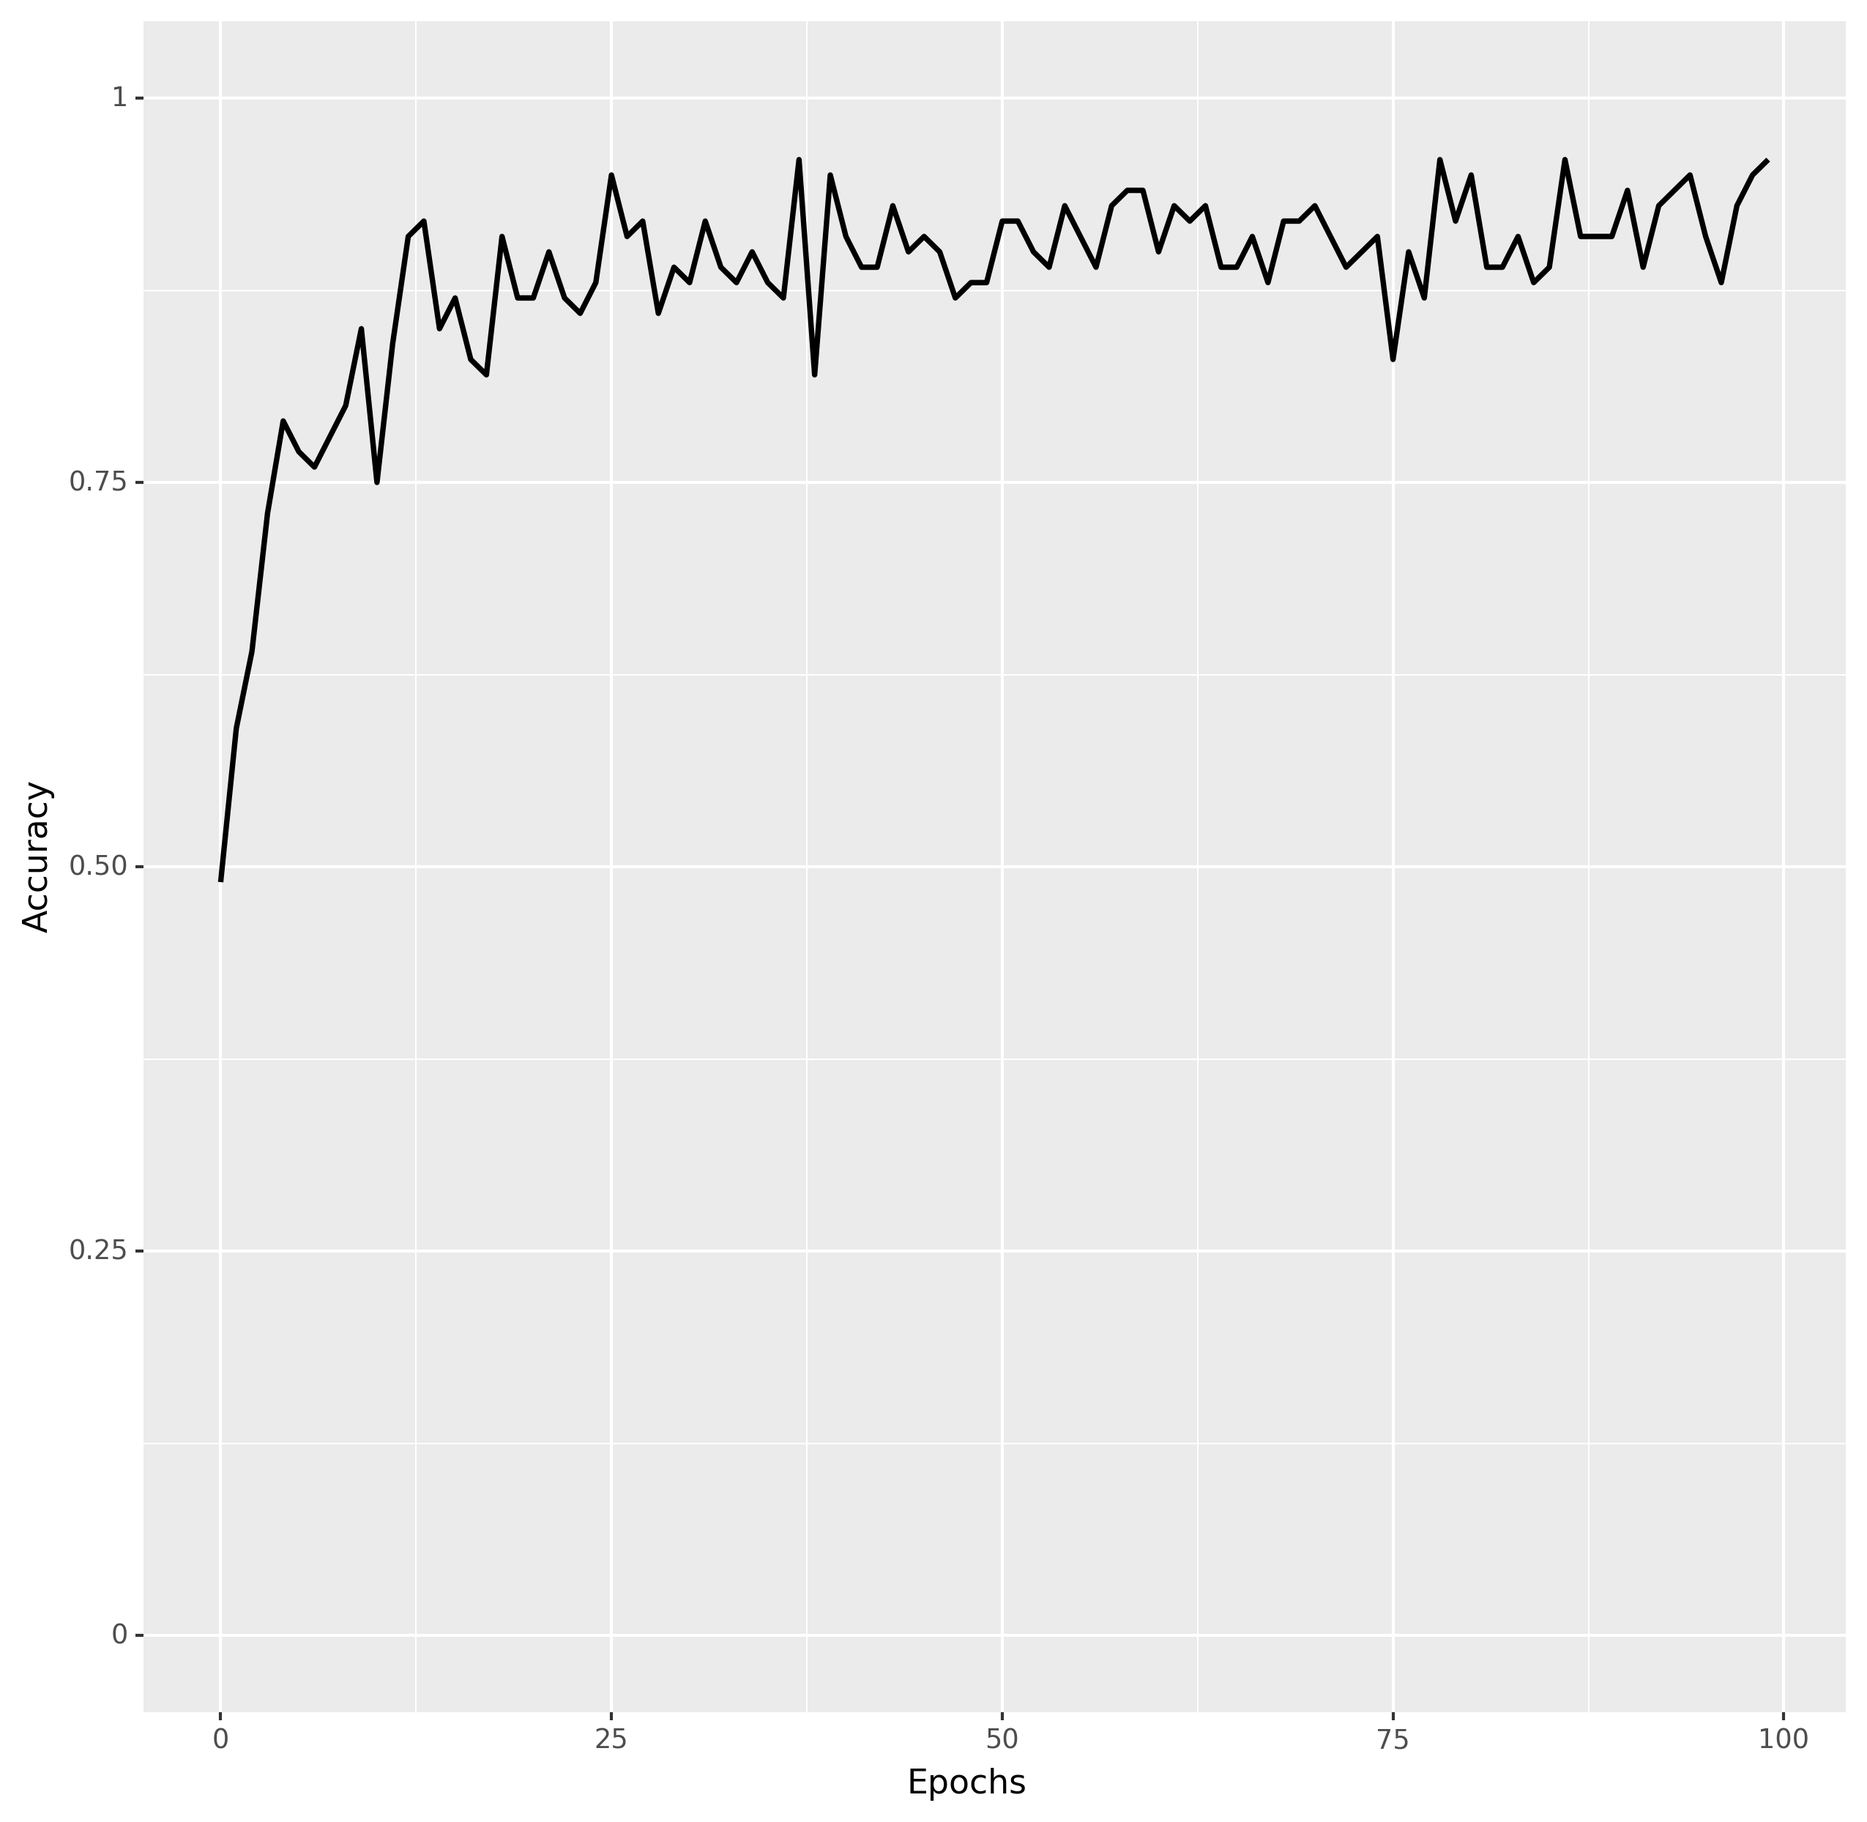
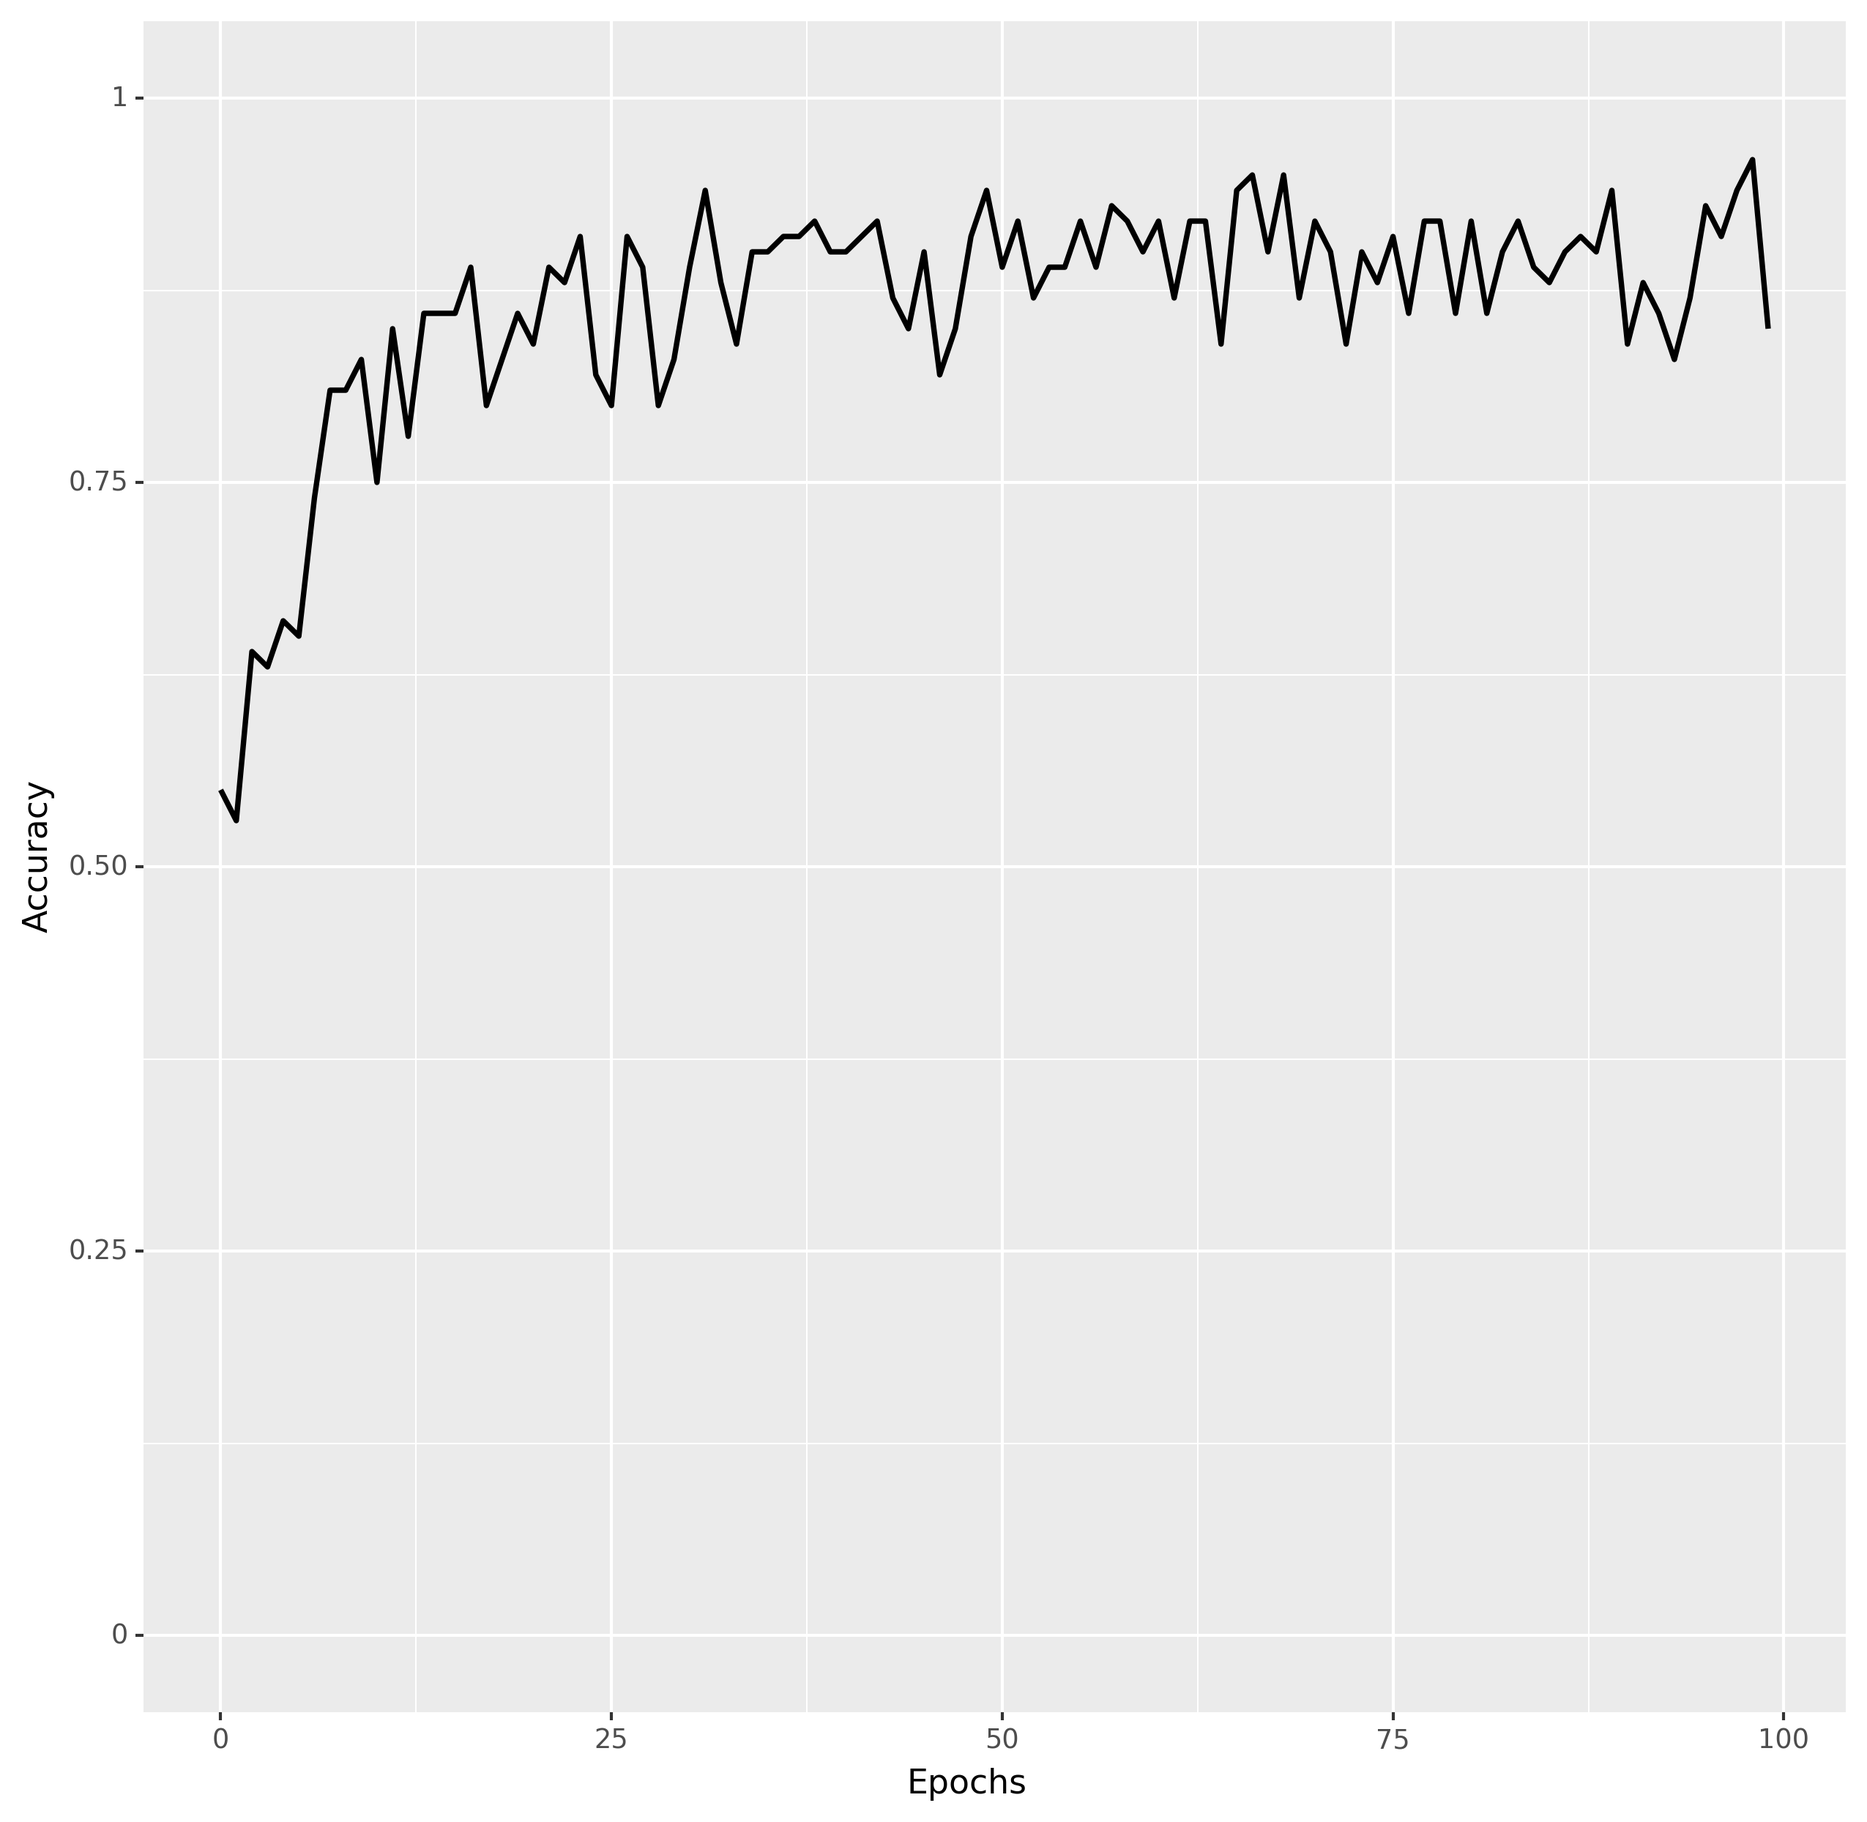
added Layer module to network

Changed region(s): [[0.1239, 0.0928, 0.9604, 0.4331], [0.0929, 0.4331, 0.1239, 0.464]]

diff --git a/src/agents.py b/src/agents.py
@@ -90,28 +90,26 @@ class SignalingModule:
     def forward(self, x) -> Any:
         raise NotImplementedError
 
+    def update(self, reward_amount: float = 0) -> None:
+        """Perform a learning update on the module, by optionally rewarding based on the last policy taken, and clearing the policy history for the next forward pass."""
+        if reward_amount:
+            self.reward(amount=reward_amount)
+        self.reset_history()
+
     def reward(self, amount: float) -> None:
 
         if len(self.history) != 1:
-            raise ValueError(f"Length of history must be exactly 1 to extract a unique policy to reward. Received history: {self.history}")
-        # TODO: refactor this and below into just an 'update' function
+            raise ValueError(
+                f"Length of history must be exactly 1 to extract a unique policy to reward. Received history: {self.history}"
+            )
 
         policy = self.history.pop()
         indices = self.policy_to_indices(policy)
         self.parameters[indices] += amount
 
-    def punish(self, amount: float) -> None:
-
-        if len(self.history) != 1:
-            raise ValueError(f"Length of history must be exactly 1 to extract a unique policy to punish. Received history: {self.history}")
-
-        policy = self.history.pop()
-        indices = self.policy_to_indices(policy)
-        self.parameters[indices] -= amount
-
-        # reset if necessary
-        if self.parameters[indices] < 1:
-            self.parameters[indices] = 1
+    def reset_history(self) -> None:
+        """Call this function after every forward pass through a module, whether it was rewarded or not."""
+        self.history = []
 
     @abstractmethod
     def policy_to_indices(self, policy: dict[str, Any]) -> tuple[int]:
@@ -176,10 +174,9 @@ class ReceiverSender(SignalingModule):
         # no need to touch `history`
         return self.sender(self.receiver(x))
 
-    def reward(self, amount: float) -> None:
-        """Reward the agent by incrementing its sub-agents' relevant parameters."""
-        self.receiver.reward(amount)
-        self.sender.reward(amount)
+    def update(self, reward_amount: float = 0) -> None:
+        self.receiver.update(reward_amount)
+        self.sender.update(reward_amount)
 
 
 class AttentionAgent(SignalingModule):
@@ -202,7 +199,9 @@ class AttentionAgent(SignalingModule):
         output = x[index]
 
         if len(self.history) != 0:
-            raise ValueError(f"The length of history before pushing a policy should be empty. The value of history: {self.history}")
+            raise ValueError(
+                f"The length of history before pushing a policy should be empty. The value of history: {self.history}"
+            )
 
         self.history.append({"index": index})
 
@@ -210,7 +209,7 @@ class AttentionAgent(SignalingModule):
 
     def policy_to_indices(self, policy: dict[str, Any]) -> tuple[int]:
         # a singleton tuple
-        return (policy["index"])
+        return policy["index"]
 
 
 class AttentionSignaler(SignalingModule):
@@ -228,16 +227,15 @@ class AttentionSignaler(SignalingModule):
     def forward(self, x: list[State]) -> Signal:
         return self.signaler(self.attention_layer(x))
 
-    def reward(self, amount: float) -> None:
-        """Reward the agent by incrementing its sub-agents' relevant parameters."""
-        self.attention_layer.reward(amount)
-        self.signaler.reward(amount)
+    def update(self, reward_amount: float = 0) -> None:
+        self.attention_layer.update(reward_amount)
+        self.signaler.update(reward_amount)
 
 
 class AttentionSender(AttentionSignaler):
     def __init__(self, input_size: int) -> None:
         super().__init__(
-            attention_layer=AttentionAgent(input_size), 
+            attention_layer=AttentionAgent(input_size),
             signaler=game.get_sender(),
         )
 
@@ -245,7 +243,7 @@ class AttentionSender(AttentionSignaler):
 class AttentionReceiver(AttentionSignaler):
     def __init__(self, input_size: int) -> None:
         super().__init__(
-            attention_layer=AttentionAgent(input_size), 
+            attention_layer=AttentionAgent(input_size),
             signaler=game.get_receiver(),
         )
 
@@ -280,12 +278,10 @@ class Compressor(SignalingModule):
         composite_signal = compose(signal_1, signal_2)
         return self.receiver_sender(composite_signal)
 
-    def reward(self, amount: float) -> None:
-        """Reward the agent by incrementing its sub-agents' relevant parameters."""
-        print("attention_1 history in reward: ", self.attention_1.history)
-        self.attention_1.reward(amount)
-        self.attention_2.reward(amount)
-        self.receiver_sender.reward(amount)
+    def update(self, reward_amount: float = 0) -> None:
+        self.attention_1.update(reward_amount)
+        self.attention_2.update(reward_amount)
+        self.receiver_sender.update(reward_amount)
 
 
 ##############################################################################

diff --git a/src/network.py b/src/network.py
@@ -16,43 +16,64 @@ class SignalTree(SignalingModule):
 
     def __init__(self, input_size: int) -> None:
         # initialize layers
-        self.layers = build_triangle_network(input_size)
+        self.agents = build_triangle_network(input_size)
 
         # wrap each layer of agents as a function
-        self.input_layer = lambda x: [agent(x) for agent in self.layers["input"]]
+        self.input_layer = Layer(self.agents["input"])
+        self.hidden_layers = None
+        if self.agents["hidden"]:
+            self.hidden_layers = Sequential(
+                Layer(layer) for layer in self.agents["hidden"]
+            )
+        (self.output_layer,) = self.agents["output"]
 
-        if self.layers["hidden"]:
-            self.hidden_layers = lambda x: sequential(self.layers["hidden"], x)
+        self.all_layers = Sequential(
+            [
+                layer
+                for layer in [self.input_layer, self.hidden_layers, self.output_layer]
+                if layer is not None
+            ]
+        )
 
-        self.output_layer = lambda x: self.layers["output"][0](x)
+        super().__init__()
 
     def forward(self, x: list[State]) -> State:
         x_hat = self.input_layer(x)
-        if self.layers["hidden"]:
+        if self.agents["hidden"]:
             x_hat = self.hidden_layers(x_hat)
-        output = self.output_layer(x_hat)
-        return output
+        return self.output_layer(x_hat)
 
-    def reward(self, amount: float) -> None:
-        [
-            agent.reward(amount)
-            for layer in [self.layers["input"]] + self.layers["hidden"] + [self.layers["output"]] for agent in layer
-        ]
-    
-    def punish(self, amount: float) -> None:
-        [
-            agent.punish(amount)
-            for layer in [self.layers["input"]] + self.layers["hidden"] + [self.layers["output"]] for agent in layer
-        ]        
+    def update(self, reward_amount: float = 0) -> None:
+        self.input_layer.update(reward_amount)
+        self.output_layer.update(reward_amount)
 
 
-def sequential(
-    layers: list[list[SignalingModule]], input_signals: list[Signal]
-) -> Callable[[list[Any]], list[Any]]:
-    """Converts a list of layers to a function reducing the result of each applied in order."""
-    funcs = [lambda x: [agent(x) for agent in layer] for layer in layers]
-    result = reduce(lambda res, f: f(res), funcs, input_signals)
-    return result
+class Layer(SignalingModule):
+    def __init__(self, agents: list[SignalingModule]) -> None:
+        self.agents = agents
+
+    def forward(self, x) -> Any:
+        return [agent(x) for agent in self.agents]
+
+    def update(self, reward_amount: float = 0) -> None:
+        [agent.update(reward_amount) for agent in self.agents]
+
+
+class Sequential(SignalingModule):
+    """Constructs a module consisting of the result of a list of layers applied to each other in order using `reduce`."""
+
+    def __init__(self, layers: list[Layer]) -> None:
+        self.layers = layers
+
+    def forward(self, x) -> Any:
+        return reduce(
+            lambda res, f: f(res),
+            [lambda x_: layer(x_) for layer in self.layers],
+            x,
+        )
+
+    def update(self, reward_amount: float = 0) -> None:
+        [layer.update(reward_amount) for layer in self.layers]
 
 
 def build_triangle_network(input_size: int = 2) -> dict[str, list[SignalingModule]]:
@@ -67,7 +88,7 @@ def build_triangle_network(input_size: int = 2) -> dict[str, list[SignalingModul
 
     Returns:
 
-        layers: a dict containing the levels of the binary tree, corresponding to layers of the signaling network. Of the form
+        agents: a dict containing the levels of the binary tree, corresponding to layers of the signaling network. Of the form
             {
                 "input": (list of agents),
                 "hidden": (list of lists of agents),
@@ -81,7 +102,7 @@ def build_triangle_network(input_size: int = 2) -> dict[str, list[SignalingModul
         )
 
     # default network
-    layers = {
+    agents = {
         "input": [AttentionSender(input_size) for _ in range(input_size)],
         "hidden": [],
         "output": [game.get_output_agent()],
@@ -97,8 +118,8 @@ def build_triangle_network(input_size: int = 2) -> dict[str, list[SignalingModul
 
     if layer_sizes:
         # populate each hidden layer with agents
-        layers["hidden"] = [
+        agents["hidden"] = [
             [game.get_compressor(size) for _ in range(size)] for size in layer_sizes
         ]
 
-    return layers
+    return agents

diff --git a/src/game.py b/src/game.py
@@ -22,6 +22,7 @@ from functools import reduce
 # Data and evaluation
 ##############################################################################
 
+
 def generate_data(sentence: str = "p and q") -> list[dict[str, State]]:
     """Given a boolean function, generate a dataset of positive examples to train agents on corresponding to the table representation of the function.
 
@@ -50,14 +51,17 @@ def generate_data(sentence: str = "p and q") -> list[dict[str, State]]:
 def n_ary_data(n: int):
     f = lambda inputs: reduce(lambda x, y: x and y, inputs)
     examples = []
-    assignments = list(product([0, 1], repeat=n)) # get all possible combinations of truth values
+    assignments = list(
+        product([0, 1], repeat=n)
+    )  # get all possible combinations of truth values
     for inputs in assignments:
         example = {
             "input": [State(str(atom)) for atom in inputs],  # a list of states
             "label": State(str(f(inputs))),  # a state
         }
         examples.append(example)
-    return examples    
+    return examples
+
 
 def binary_data(
     f: Callable[[bool, bool], bool] = lambda x, y: x and y
@@ -81,7 +85,7 @@ def binary_data(
 
 
 def empirical_accuracy(
-    net: SignalTree, dataset: list[dict[str, Any]], num_rounds: int = 100
+    net: SignalTree, dataset: list[dict[str, Any]], num_rounds: int = None
 ) -> float:
     """
     Evaluate the accuracy of a signaling networks by computing the average accuracy on the dataset.
@@ -89,6 +93,9 @@ def empirical_accuracy(
     Args:
         num_rounds: an int representing how many interactions to record.
     """
+    if num_rounds is None:
+        num_rounds = len(dataset)
+
     num_correct = 0
     for _ in range(num_rounds):
         example = np.random.choice(dataset)
@@ -98,6 +105,7 @@ def empirical_accuracy(
         y_hat = net(x)
 
         num_correct += 1 if y_hat == y else 0
+        net.update()
 
     return num_correct / num_rounds
 
@@ -129,6 +137,7 @@ def get_binary_language() -> SignalingLanguage:
         signals=signals,
     )
 
+
 def get_quaternary_language() -> SignalingLanguage:
     """Get a 2 state, 4 signal SignalingLanguage instance initialized for boolean games."""
     states = [State(name="0"), State(name="1")]
@@ -146,15 +155,18 @@ def get_quaternary_language() -> SignalingLanguage:
 
     return SignalingLanguage(
         signals=signals,
-    )    
+    )
+
 
 def get_sender() -> SenderModule:
     """Get a 2 state, 2 signal SenderModule instance initialized for boolean games."""
     return SenderModule(sender=Sender(language=get_binary_language()))
 
+
 def get_receiver() -> ReceiverModule:
     """Get a ReceiverModule instance initialized for boolean games."""
     return ReceiverModule(receiver=Receiver(language=get_binary_language()))
+
 
 def get_quaternary_receiver() -> SenderModule:
     """Get a 4 signal, 2 state ReceiverModule instsance initialized for boolean games."""
@@ -167,6 +179,7 @@ def get_receiver_sender() -> ReceiverSender:
         receiver=get_quaternary_receiver(),
         sender=get_sender(),
     )
+
 
 def get_compressor(input_size: int) -> Compressor:
     """Get a Compressor instance initialized for boolean games."""

diff --git a/src/main.py b/src/main.py
@@ -29,7 +29,6 @@ def main():
 
     # initialize network and parameters
     net = SignalTree(input_size=input_size)
-    amount = learning_rate * 1.0
 
     accuracy = []
     # main training loop
@@ -39,12 +38,9 @@ def main():
         y = example["label"]
         y_hat = net(x)
 
-        if y == y_hat:
-            net.reward(amount)
-        else:
-            net.punish(amount)
+        net.update(reward_amount=int(y == y_hat) * learning_rate)
 
-        acc = empirical_accuracy(net, dataset)
+        acc = empirical_accuracy(net, dataset, num_rounds=100)
         # record accuracy
         if r % 10 == 0:
             print(f"Accuracy on round {r}: {round(acc, 2)}")

diff --git a/src/tests/test_net.py b/src/tests/test_net.py
@@ -1,5 +1,6 @@
 from src.game import n_ary_data
 
+
 def test_n_ary_data():
     dataset = n_ary_data(n=2)
     assert len(dataset) == 4

diff --git a/src/tests/test_all.py b/src/tests/test_all.py
@@ -1,5 +1,6 @@
 from ..game import n_ary_data
 
+
 def test_n_ary_data():
     dataset = n_ary_data(n=2)
     assert len(dataset) == 4
